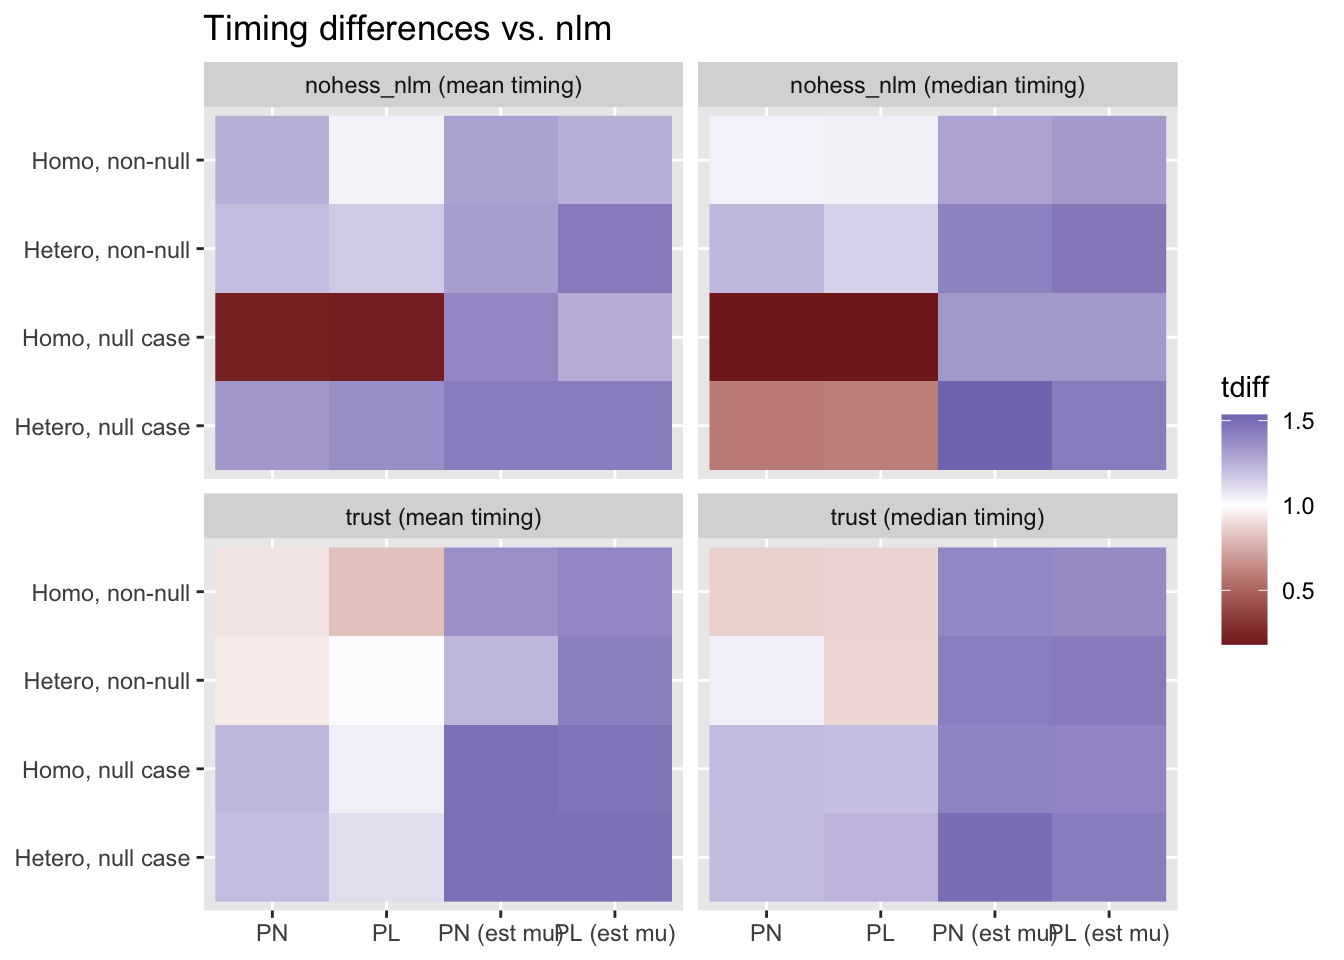
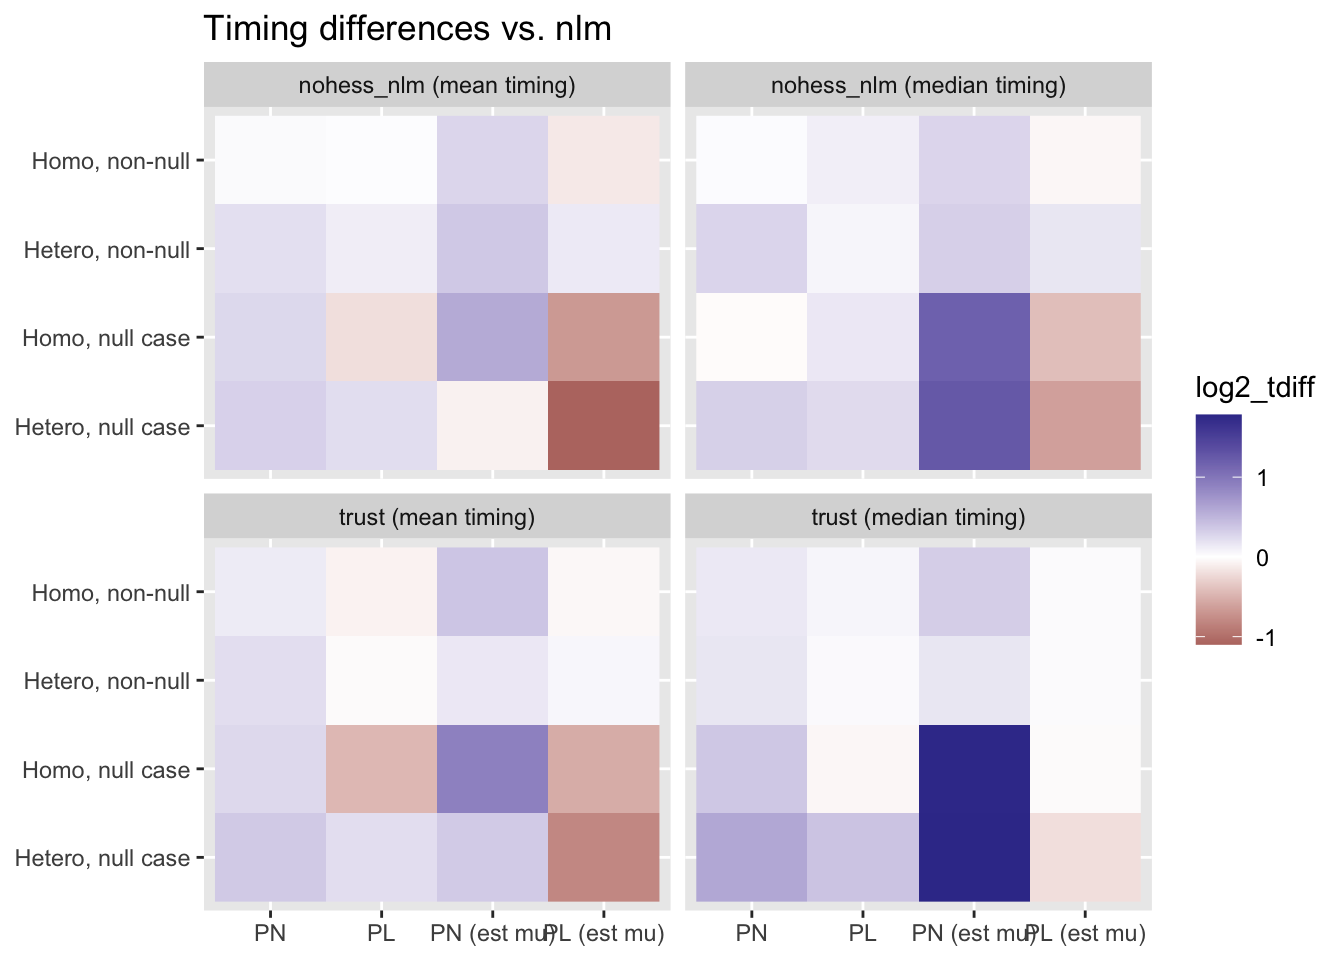
Build site.

diff --git a/docs/optmethods.html b/docs/optmethods.html
@@ -364,7 +364,7 @@ div.section {
 <div class="tab-content">
 <div id="summary" class="tab-pane fade in active">
 <p>
-<strong>Last updated:</strong> 2021-01-12
+<strong>Last updated:</strong> 2021-01-13
 </p>
 <p>
 <strong>Checks:</strong> <span class="glyphicon glyphicon-ok text-success" aria-hidden="true"></span> 6 <span class="glyphicon glyphicon-exclamation-sign text-danger" aria-hidden="true"></span> 0
@@ -443,10 +443,10 @@ This reproducible <a href="http://rmarkdown.rstudio.com">R Markdown</a> analysis
 <div class="panel panel-default">
 <div class="panel-heading">
 <p class="panel-title">
-<a data-toggle="collapse" data-parent="#workflowr-checks" href="#strongRepositoryversionstrongahrefhttpsgithubcomwillwerscheidebnmpapertreee57f4e0140ccfa5fe203cabff046e9f8705feadctargetblanke57f4e0a"> <span class="glyphicon glyphicon-ok text-success" aria-hidden="true"></span> <strong>Repository version:</strong> <a href="https://github.com/willwerscheid/ebnm-paper/tree/e57f4e0140ccfa5fe203cabff046e9f8705feadc" target="_blank">e57f4e0</a> </a>
+<a data-toggle="collapse" data-parent="#workflowr-checks" href="#strongRepositoryversionstrongahrefhttpsgithubcomwillwerscheidebnmpapertreeee646460920ec2403a43954a1a040756a079874ctargetblankee64646a"> <span class="glyphicon glyphicon-ok text-success" aria-hidden="true"></span> <strong>Repository version:</strong> <a href="https://github.com/willwerscheid/ebnm-paper/tree/ee646460920ec2403a43954a1a040756a079874c" target="_blank">ee64646</a> </a>
 </p>
 </div>
[2 lines of base64/hex data omitted]
 <div class="panel-body">
 <p>
 Great! You are using Git for version control. Tracking code development and connecting the code version to the results is critical for reproducibility. The version displayed above was the version of the Git repository at the time these results were generated. <br><br> Note that you need to be careful to ensure that all relevant files for the analysis have been committed to Git prior to generating the results (you can use <code>wflow_publish</code> or <code>wflow_git_commit</code>). workflowr only checks the R Markdown file, but you know if there are other scripts or data files that it depends on. Below is the status of the Git repository when the results were generated:
@@ -496,6 +496,40 @@ Message
 </tr>
 </thead>
 <tbody>
+<tr>
+<td>
+Rmd
+</td>
+<td>
+<a href="https://github.com/willwerscheid/ebnm-paper/blob/ee646460920ec2403a43954a1a040756a079874c/analysis/optmethods.Rmd" target="_blank">ee64646</a>
+</td>
+<td>
+Jason Willwerscheid
+</td>
+<td>
+2021-01-13
+</td>
+<td>
+wflow_publish(“analysis/optmethods.Rmd”)
+</td>
+</tr>
+<tr>
+<td>
+html
+</td>
+<td>
+<a href="https://rawcdn.githack.com/willwerscheid/ebnm-paper/f073d621e5522f0cc1f99deb4ca6c05a72ec56d3/docs/optmethods.html" target="_blank">f073d62</a>
+</td>
+<td>
+Jason Willwerscheid
+</td>
+<td>
+2021-01-12
+</td>
+<td>
+Build site.
+</td>
+</tr>
 <tr>
 <td>
 Rmd
@@ -561,7 +595,7 @@ wflow_publish(“analysis/optmethods.Rmd”)
 <li>Standard errors can be identical or different</li>
 <li>The mode can be estimated or not</li>
 </ul>
-<p>I use <code>nlm</code> as the baseline and show timing differences for <code>nohess_nlm</code> and <code>trust</code>. For example, <code>tdiff = 2</code> means that <code>nlm</code> is faster by a factor of 2. Thus blue squares indicate cases where <code>nlm</code> is faster and red squares indicate cases where a competing method is faster. I use <code>microbenchmark</code> with differently simulated data for each iteration, and I give comparisons using both mean and median timings.</p>
+<p>I use <code>nlm</code> as the baseline and show timing differences for <code>nohess_nlm</code> and <code>trust</code>. For example, <code>log2_tdiff = 1</code> means that <code>nlm</code> is faster by a factor of 2. Thus blue squares indicate cases where <code>nlm</code> is faster and red squares indicate cases where a competing method is faster. I use <code>microbenchmark</code> with differently simulated data for each iteration, and I give comparisons using both mean and median timings.</p>
 <pre class="r"><code>suppressMessages(library(tidyverse))
 library(microbenchmark)
 library(ebnm)
@@ -594,16 +628,32 @@ one_test &lt;- function(n, pn, null_case, homosked, est_mu, optmethod) {
   }
   
   x &lt;- theta + rnorm(n, sd = s)
-
+  
+  if (pn) {
+    ebnm_fn &lt;- ebnm_point_normal
+  } else {
+    ebnm_fn &lt;- ebnm_point_laplace
+  }
+  
+  if (est_mu) {
+    ebnm_mode &lt;- &quot;estimate&quot;
+  } else {
+    ebnm_mode &lt;- 0
+  }
+  
+  
   if (optmethod == &quot;nlm&quot;) {
-    res &lt;- ebnm_point_normal(x, s, optmethod = &quot;nlm&quot;, 
-                             control = list(gradtol = sqrt(.Machine$double.eps)))
+    res &lt;- do.call(ebnm_fn, 
+                   list(x = x, s = s, mode = ebnm_mode, optmethod = &quot;nlm&quot;, 
+                        control = list(gradtol = sqrt(.Machine$double.eps), stepmax = 1)))
   } else if (optmethod == &quot;nohess_nlm&quot;) {
-    res &lt;- ebnm_point_normal(x, s, optmethod = &quot;nohess_nlm&quot;, 
-                             control = list(gradtol = sqrt(.Machine$double.eps)))
+    res &lt;- do.call(ebnm_fn, 
+                   list(x = x, s = s, mode = ebnm_mode, optmethod = &quot;nohess_nlm&quot;, 
+                        control = list(gradtol = sqrt(.Machine$double.eps), stepmax = 1)))
   } else if (optmethod == &quot;trust&quot;) {
-    res &lt;- ebnm_point_normal(x, s, optmethod = &quot;trust&quot;,
-                             control = list(fterm = sqrt(.Machine$double.eps)))
+    res &lt;- do.call(ebnm_fn, 
+                   list(x = x, s = s, mode = ebnm_mode, optmethod = &quot;trust&quot;,
+                        control = list(fterm = sqrt(.Machine$double.eps), rmax = 1)))
   } else {
     stop(&quot;Invalid optmethod.&quot;)
   }
@@ -671,17 +721,20 @@ plot_one_n &lt;- function(res) {
            facet = paste0(comparison_method, &quot; (&quot;, sumstat, &quot; timing)&quot;)) %&gt;%
     mutate(x = fct_relevel(x, &quot;PN&quot;, &quot;PL&quot;, &quot;PN (est mu)&quot;, &quot;PL (est mu)&quot;),
            y = fct_relevel(y, &quot;Hetero, null case&quot;, &quot;Homo, null case&quot;, 
-                           &quot;Hetero, non-null&quot;, &quot;Homo, non-null&quot;))
+                           &quot;Hetero, non-null&quot;, &quot;Homo, non-null&quot;)) %&gt;%
+    mutate(log2_tdiff = log2(tdiff))
   
   plt &lt;- ggplot(res, aes(x = x, y = y)) + 
-    geom_raster(aes(fill = tdiff)) +
-    scale_fill_gradient2(midpoint = 1) +
+    geom_raster(aes(fill = log2_tdiff)) +
+    scale_fill_gradient2(midpoint = 0) +
     labs(x = NULL, y = NULL) +
     facet_wrap(~facet) +
     ggtitle(&quot;Timing differences vs. nlm&quot;)
   
   return(plt)
-}</code></pre>
+}
+
+set.seed(666)</code></pre>
 <div id="n-1000" class="section level2">
 <h2><span class="math inline">\(n = 1000\)</span></h2>
 <pre class="r"><code>plot_one_n(one_n(1000, mb_times = 100L))</code></pre>
@@ -708,6 +761,17 @@ Date
 </tr>
 </thead>
 <tbody>
+<tr>
+<td>
+<a href="https://github.com/willwerscheid/ebnm-paper/blob/f073d621e5522f0cc1f99deb4ca6c05a72ec56d3/docs/figure/optmethods.Rmd/n1000-1.png" target="_blank">f073d62</a>
+</td>
+<td>
+Jason Willwerscheid
+</td>
+<td>
+2021-01-12
+</td>
+</tr>
 <tr>
 <td>
 <a href="https://github.com/willwerscheid/ebnm-paper/blob/841d017d86cc5cc4f5980111eba4dc5a72f1fedf/docs/figure/optmethods.Rmd/n1000-1.png" target="_blank">841d017</a>
@@ -752,6 +816,17 @@ Date
 <tbody>
 <tr>
 <td>
+<a href="https://github.com/willwerscheid/ebnm-paper/blob/f073d621e5522f0cc1f99deb4ca6c05a72ec56d3/docs/figure/optmethods.Rmd/n10000-1.png" target="_blank">f073d62</a>
+</td>
+<td>
+Jason Willwerscheid
+</td>
+<td>
+2021-01-12
+</td>
+</tr>
+<tr>
+<td>
 <a href="https://github.com/willwerscheid/ebnm-paper/blob/841d017d86cc5cc4f5980111eba4dc5a72f1fedf/docs/figure/optmethods.Rmd/n10000-1.png" target="_blank">841d017</a>
 </td>
 <td>
@@ -768,7 +843,7 @@ Jason Willwerscheid
 </div>
 <div id="n-100000" class="section level2">
 <h2><span class="math inline">\(n = 100000\)</span></h2>
-<pre class="r"><code>plot_one_n(one_n(100000, mb_times = 100L))</code></pre>
+<pre class="r"><code>plot_one_n(one_n(100000, mb_times = 50L))</code></pre>
 <p><img src="figure/optmethods.Rmd/n100000-1.png" width="672" style="display: block; margin: auto;" /></p>
 <p>
 <button type="button" class="btn btn-default btn-xs btn-workflowr btn-workflowr-fig" data-toggle="collapse" data-target="#fig-n100000-1">
@@ -792,6 +867,17 @@ Date
 </tr>
 </thead>
 <tbody>
+<tr>
+<td>
+<a href="https://github.com/willwerscheid/ebnm-paper/blob/f073d621e5522f0cc1f99deb4ca6c05a72ec56d3/docs/figure/optmethods.Rmd/n100000-1.png" target="_blank">f073d62</a>
+</td>
+<td>
+Jason Willwerscheid
+</td>
+<td>
+2021-01-12
+</td>
+</tr>
 <tr>
 <td>
 <a href="https://github.com/willwerscheid/ebnm-paper/blob/841d017d86cc5cc4f5980111eba4dc5a72f1fedf/docs/figure/optmethods.Rmd/n100000-1.png" target="_blank">841d017</a>
@@ -830,7 +916,7 @@ Jason Willwerscheid
 #&gt; [1] stats     graphics  grDevices utils     datasets  methods   base     
 #&gt; 
 #&gt; other attached packages:
-#&gt;  [1] ebnm_0.1-29          microbenchmark_1.4-7 forcats_0.4.0        stringr_1.4.0       
+#&gt;  [1] ebnm_0.1-31          microbenchmark_1.4-7 forcats_0.4.0        stringr_1.4.0       
 #&gt;  [5] dplyr_1.0.2          purrr_0.3.4          readr_1.3.1          tidyr_1.1.2         
 #&gt;  [9] tibble_3.0.4         ggplot2_3.3.3        tidyverse_1.3.0     
 #&gt; 
